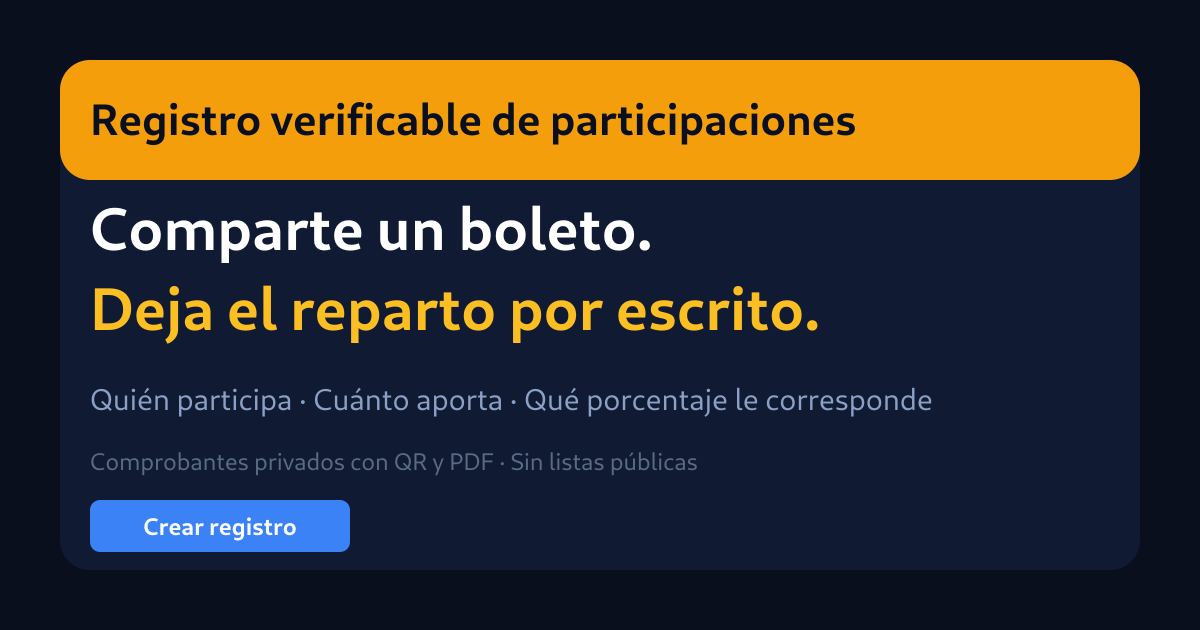
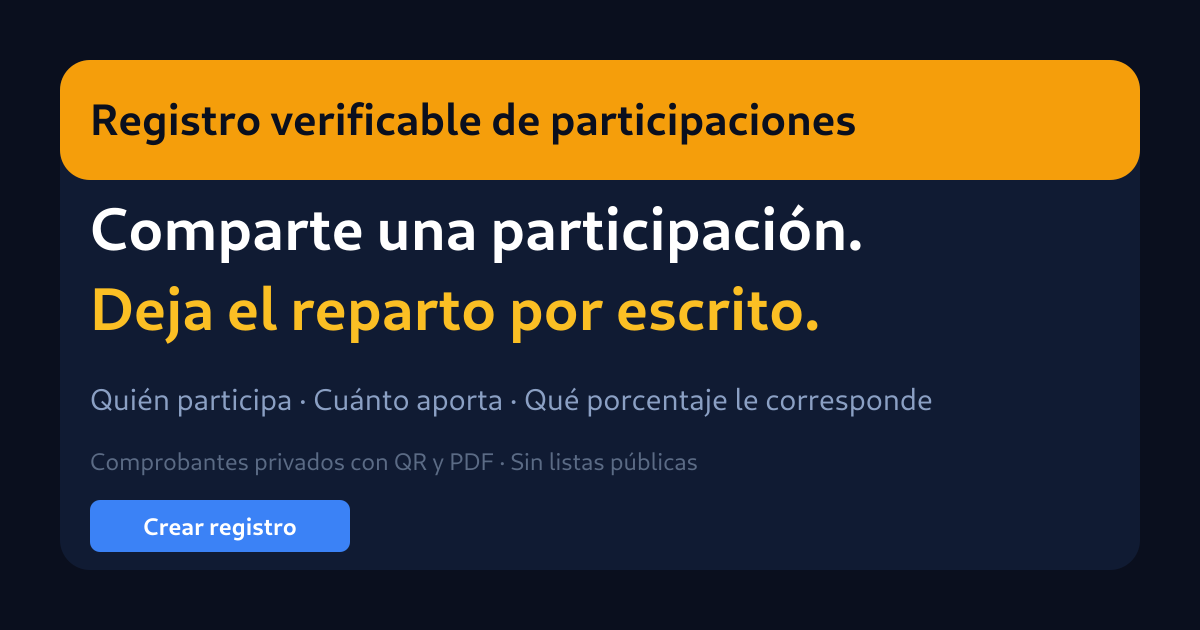
feat: PWA instalable + narrativa 'Comparte una participación'
- manifest.webmanifest, service worker (sw.js), iconos 192/512/180/32
- Meta tags PWA en landing (manifest, apple-touch-icon, theme-color)
- Registro del SW en la landing
- Texto: 'Comparte un boleto' -> 'Comparte una participación'
- og:image regenerado con el nuevo texto

Changed region(s): [[0.37, 0.3317, 0.7092, 0.4222]]

diff --git a/src/routes/view.js b/src/routes/view.js
@@ -83,12 +83,19 @@ router.get('/', (req, res) => {
 <title>Registro verificable de participaciones</title>
 <meta name="description" content="Deja constancia de quién participa en un sorteo, boleto o reparto compartido, cuánto aporta y qué porcentaje le corresponde. Cada partícipe recibe un comprobante privado con QR y PDF.">
 <meta property="og:title" content="Registro verificable de participaciones">
-<meta property="og:description" content="Comparte un boleto. Deja el reparto por escrito. Comprobantes privados con QR y PDF.">
+<meta property="og:description" content="Comparte una participación en un sorteo. Deja el reparto por escrito. Comprobantes privados con QR y PDF.">
 <meta property="og:image" content="https://pruebapublica.com/assets/og-preview.png">
 <meta property="og:image:width" content="1200">
 <meta property="og:image:height" content="630">
 <meta name="twitter:card" content="summary_large_image">
 <link rel="icon" type="image/svg+xml" href="/assets/favicon.svg">
+<link rel="manifest" href="/assets/manifest.webmanifest">
+<meta name="theme-color" content="#0a0f1e">
+<meta name="mobile-web-app-capable" content="yes">
+<meta name="apple-mobile-web-app-capable" content="yes">
+<meta name="apple-mobile-web-app-status-bar-style" content="black-translucent">
+<meta name="apple-mobile-web-app-title" content="Participaciones">
+<link rel="apple-touch-icon" href="/assets/icon-192.png">
 <style>
 :root{--bg:#070b18;--bg2:#0d1528;--card:#101b33;--card2:#0a1226;--line:#1c2a47;--line2:#26365a;
 --fg:#e8eefb;--mut:#8ba0c4;--accent:#f59e0b;--accent2:#3b82f6;--ok:#34d399;--warn:#fbbf24;--danger:#f87171;
@@ -171,7 +178,7 @@ footer a{color:var(--accent);text-decoration:none}
 
 <header class="hero">
   <span class="badge">Registro privado y verificable</span>
-  <h1>Comparte un boleto. Deja el reparto por escrito.</h1>
+  <h1>Comparte una participación. Deja el reparto por escrito.</h1>
   <p>Si ya tienes un décimo, una rifa, una apuesta o un bote compartido, registra quién participa, cuánto aporta y qué porcentaje del reparto le corresponde. Cada partícipe recibe un <b>comprobante privado</b> con QR y PDF.</p>
   <p class="resp">La herramienta no crea sorteos, no vende boletos, no custodia dinero y no garantiza resultados: documenta el acuerdo entre las personas participantes.</p>
   <div class="sub-badges"><span>🔗 Registro verificable</span><span>🔒 Comprobantes privados</span><span>📄 PDF de constancia</span><span>📱 Fácil de compartir</span></div>
@@ -287,6 +294,10 @@ footer a{color:var(--accent);text-decoration:none}
     apply(cur);
     try { localStorage.setItem('tema', cur); } catch(e){}
   };
+})();
+if ('serviceWorker' in navigator) {
+  window.addEventListener('load', function(){ navigator.serviceWorker.register('/assets/sw.js'); });
+}
 </script>
 </body></html>`);
 });

diff --git a/assets/sw.js b/assets/sw.js
@@ -1,0 +1,43 @@
+// Service Worker — Registro verificable de participaciones (PWA)
+// Estrategia: network-first para HTML/API, cache-first para assets estáticos.
+const CACHE = 'loteria-hash-v1';
+const CORE = ['/', '/assets/favicon.svg', '/assets/icon-192.png', '/assets/icon-512.png', '/assets/manifest.webmanifest'];
+
+self.addEventListener('install', (e) => {
+  e.waitUntil(caches.open(CACHE).then((c) => c.addAll(CORE)).then(() => self.skipWaiting()));
+});
+
+self.addEventListener('activate', (e) => {
+  e.waitUntil(
+    caches.keys()
+      .then((keys) => Promise.all(keys.filter((k) => k !== CACHE).map((k) => caches.delete(k))))
+      .then(() => self.clients.claim())
+  );
+});
+
+self.addEventListener('fetch', (e) => {
+  const url = new URL(e.request.url);
+  // Solo manejar peticiones del mismo origen y GET
+  if (e.request.method !== 'GET' || url.origin !== location.origin) return;
+
+  // Assets estáticos: cache-first (no se actualizan a menudo)
+  if (url.pathname.startsWith('/assets/')) {
+    e.respondWith(
+      caches.match(e.request).then((hit) => hit || fetch(e.request).then((r) => {
+        const copy = r.clone();
+        caches.open(CACHE).then((c) => c.put(e.request, copy));
+        return r;
+      }))
+    );
+    return;
+  }
+
+  // HTML/páginas: network-first, fallback a cache si offline
+  e.respondWith(
+    fetch(e.request).then((r) => {
+      const copy = r.clone();
+      caches.open(CACHE).then((c) => c.put(e.request, copy));
+      return r;
+    }).catch(() => caches.match(e.request).then((hit) => hit || caches.match('/')))
+  );
+});
